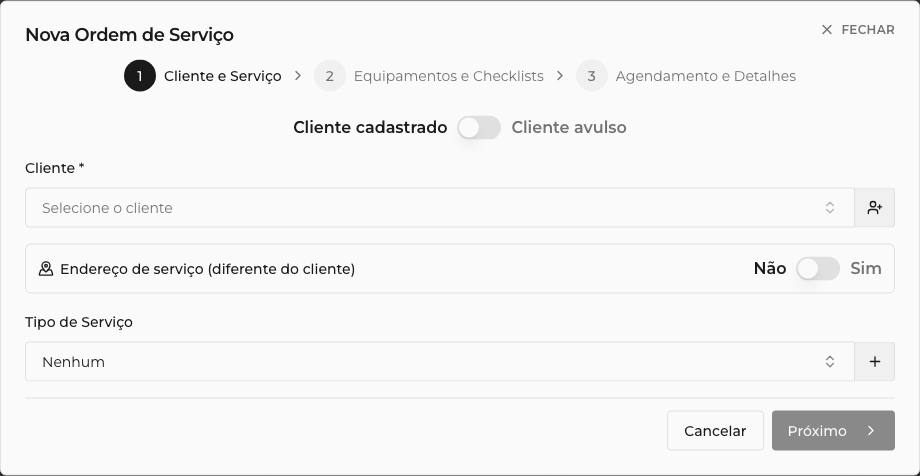
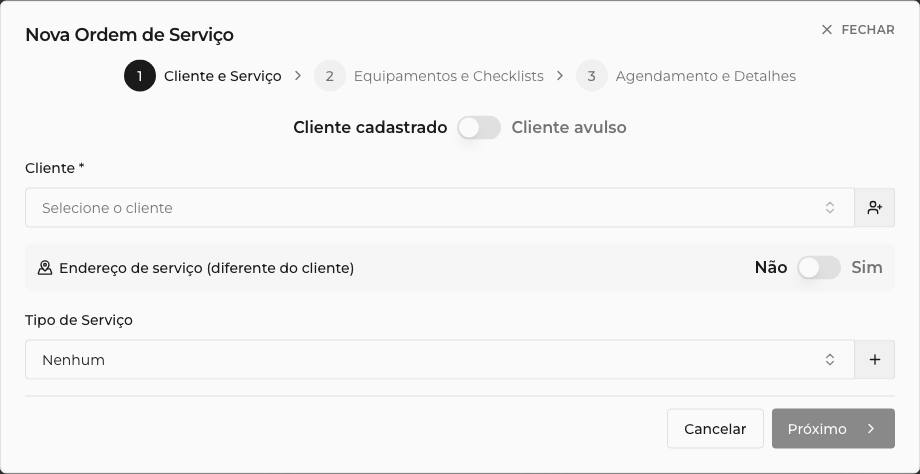
docs(guia): prints do Kardex e da Nova OS recapturados na 1.23.1
- t8-kardex: recapturado com a coluna Local visível (Galpão → Van 01 nas
  transferências). Viewport do spec subiu pra 1920 porque, com a coluna nova,
  a tabela ficou mais larga que a área principal e o recorte "main" a 1440
  cortava justamente a coluna que o texto documenta.
- t5-nova-os-etapa1: recapturado com o bloco "Endereço de serviço" sem moldura.
- Ambos auditados por olho humano e registrados no manifesto: sem CPF/CNPJ,
  telefone, endereço, assinatura, dado bancário, logo de cliente real ou link
  com token. Nome e foto de pessoa seguem liberados (decisão do CEO, 06/09).
- PDF republicado no Storage (316 páginas) e os 644 chunks recarregados na
  tabela que a IA de suporte consulta.

diff --git a/public/guia-tecnico/index.html b/public/guia-tecnico/index.html
@@ -2732,7 +2732,7 @@ footer.rodape a{color:var(--sinal);text-decoration:none}
   </ul>
 
   <figure>
-    <img src="img/t5-nova-os-etapa1.jpg" alt="Janela Nova Ordem de Serviço na Etapa 1 de 3 (Cliente e Serviço), com a chave Cliente cadastrado/Cliente avulso, o campo Cliente com busca vazio, a chave Endereço de serviço (diferente do cliente) desligada e o campo Tipo de Serviço em Nenhum, botão Próximo desativado" loading="lazy" decoding="async" width="920" height="476">
+    <img src="img/t5-nova-os-etapa1.jpg" alt="Janela Nova Ordem de Serviço na Etapa 1 de 3 (Cliente e Serviço), com a chave Cliente cadastrado/Cliente avulso, o campo Cliente com busca vazio, a chave Endereço de serviço (diferente do cliente) desligada e o campo Tipo de Serviço em Nenhum, botão Próximo desativado" loading="lazy" decoding="async" width="920" height="474">
     <figcaption>Etapa 1 da Nova OS: escolha de cliente, endereço de serviço e tipo de serviço.</figcaption>
   </figure>
 
@@ -4393,7 +4393,7 @@ footer.rodape a{color:var(--sinal);text-decoration:none}
   <p>Mostra o local de estoque onde o movimento aconteceu, como <span class="ui">Galpão</span> ou <span class="ui">Van 01</span>. Num movimento do tipo <span class="ui">Transferência</span>, ela mostra o par completo no formato "origem → destino" (por exemplo, <span class="ui">Galpão → Van 01</span>), montado a partir das duas pernas daquela transferência. Quando o sistema não consegue identificar um dos dois lados, aparece só o nome que se conhece; sem nenhum dos dois, aparece <span class="ui">—</span>.</p>
 
   <figure>
-    <img src="img/t8-kardex.jpg" alt="Aba Histórico de Materiais (Kardex) da conta de exemplo, sem nenhum movimento no período: ícone de relógio com seta, o texto Nenhuma movimentação encontrada e Tente outro período ou filtro, e o botão Filtros no canto superior direito" loading="lazy" decoding="async" width="1180" height="897">
+    <img src="img/t8-kardex.jpg" alt="Aba Histórico de Materiais (Kardex) da conta de exemplo, sem nenhum movimento no período: ícone de relógio com seta, o texto Nenhuma movimentação encontrada e Tente outro período ou filtro, e o botão Filtros no canto superior direito" loading="lazy" decoding="async" width="1180" height="709">
     <figcaption>Kardex sem movimentação no filtro atual. Com lançamentos, a tabela ganha as colunas Usuário, Data e Hora, Tipo, Origem, Material, Local, Estoque inicial, Movimento e Estoque final.</figcaption>
   </figure>
 
@@ -9215,7 +9215,7 @@ footer.rodape a{color:var(--sinal);text-decoration:none}
 
 <a class="baixar" href="https://byqldosixshhuiuarszp.supabase.co/storage/v1/object/public/guia-tecnico/Guia-Tecnico-Dominex.pdf" download>
   <svg viewBox="0 0 24 24"><path d="M21 15v4a2 2 0 0 1-2 2H5a2 2 0 0 1-2-2v-4"/><polyline points="7 10 12 15 17 10"/><line x1="12" y1="15" x2="12" y2="3"/></svg>
-  Baixar o PDF <span class="peso">4.6 MB</span>
+  Baixar o PDF <span class="peso">6.9 MB</span>
 </a>
 
 <script>
